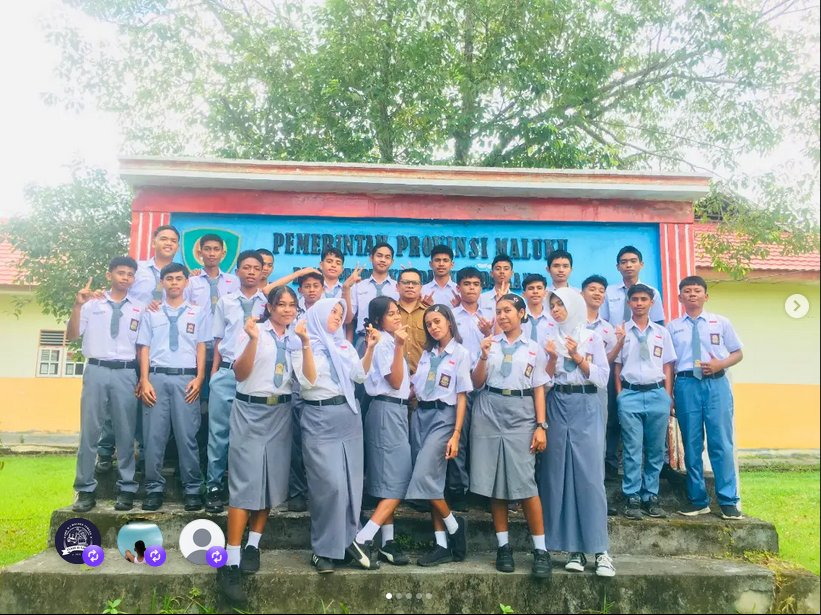
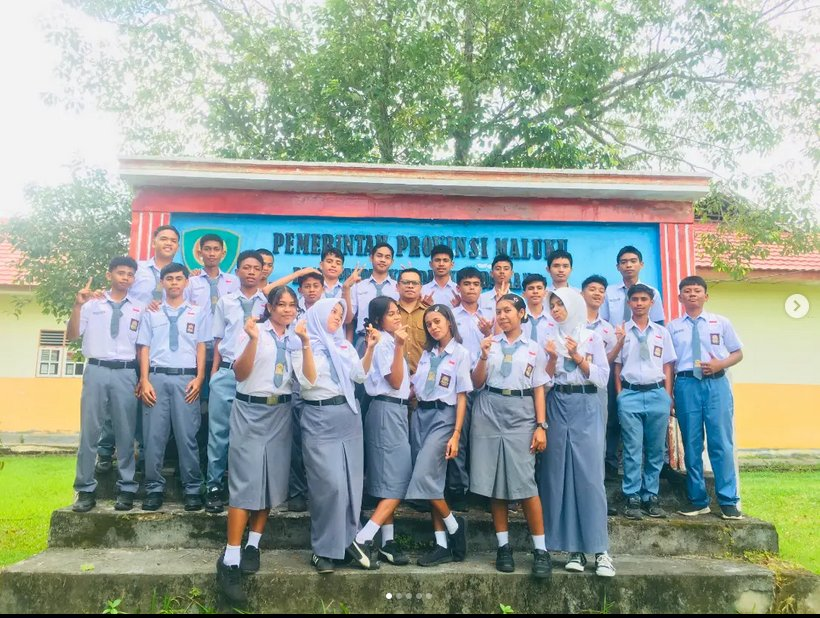
galeri: hapus foto duplikat 21, 17 memakai konten screenshot (20 foto)

diff --git a/index.html b/index.html
@@ -760,7 +760,7 @@
         <span class="tile__tag">16</span>
       </button>
 
-      <button class="tile tile--photo" style="aspect-ratio: 4/3;">
+      <button class="tile tile--photo" style="aspect-ratio: 820/618;">
         <img src="assets/galeri/17.jpg" alt="Foto kelas bersama" loading="eager" />
         <span class="tile__tag">17</span>
       </button>
@@ -778,11 +778,6 @@
       <button class="tile tile--photo" style="aspect-ratio: 3/4;">
         <img src="assets/galeri/20.jpg" alt="Foto kelas bersama" loading="eager" />
         <span class="tile__tag">20</span>
-      </button>
-
-      <button class="tile tile--photo" style="aspect-ratio: 4/3;">
-        <img src="assets/galeri/21.jpg" alt="Foto kelas bersama" loading="eager" />
-        <span class="tile__tag">21</span>
       </button>
     </div>
   </div>
